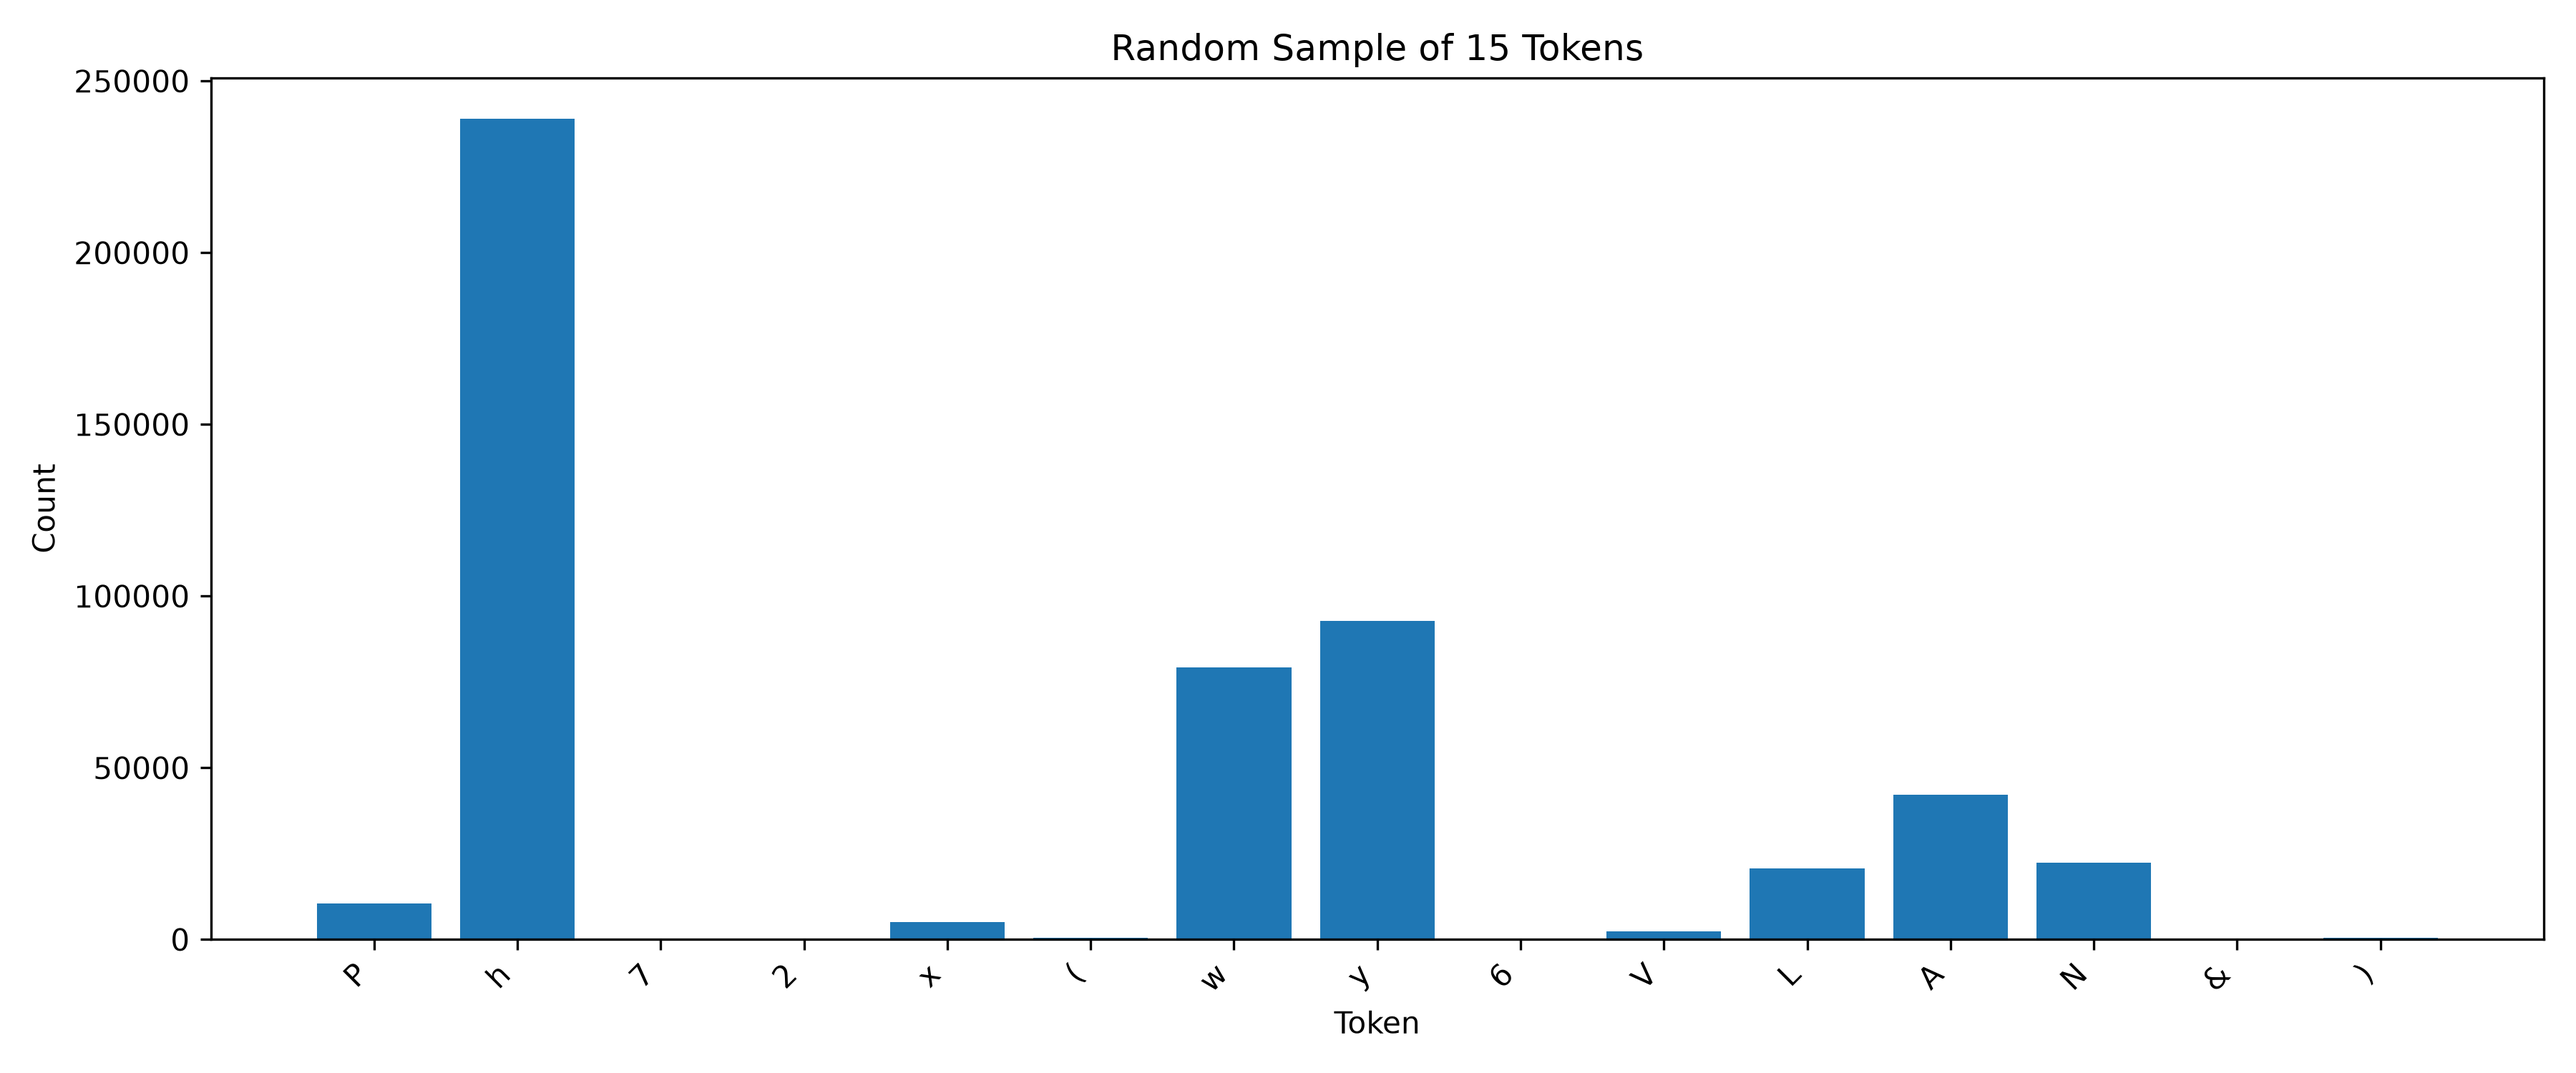
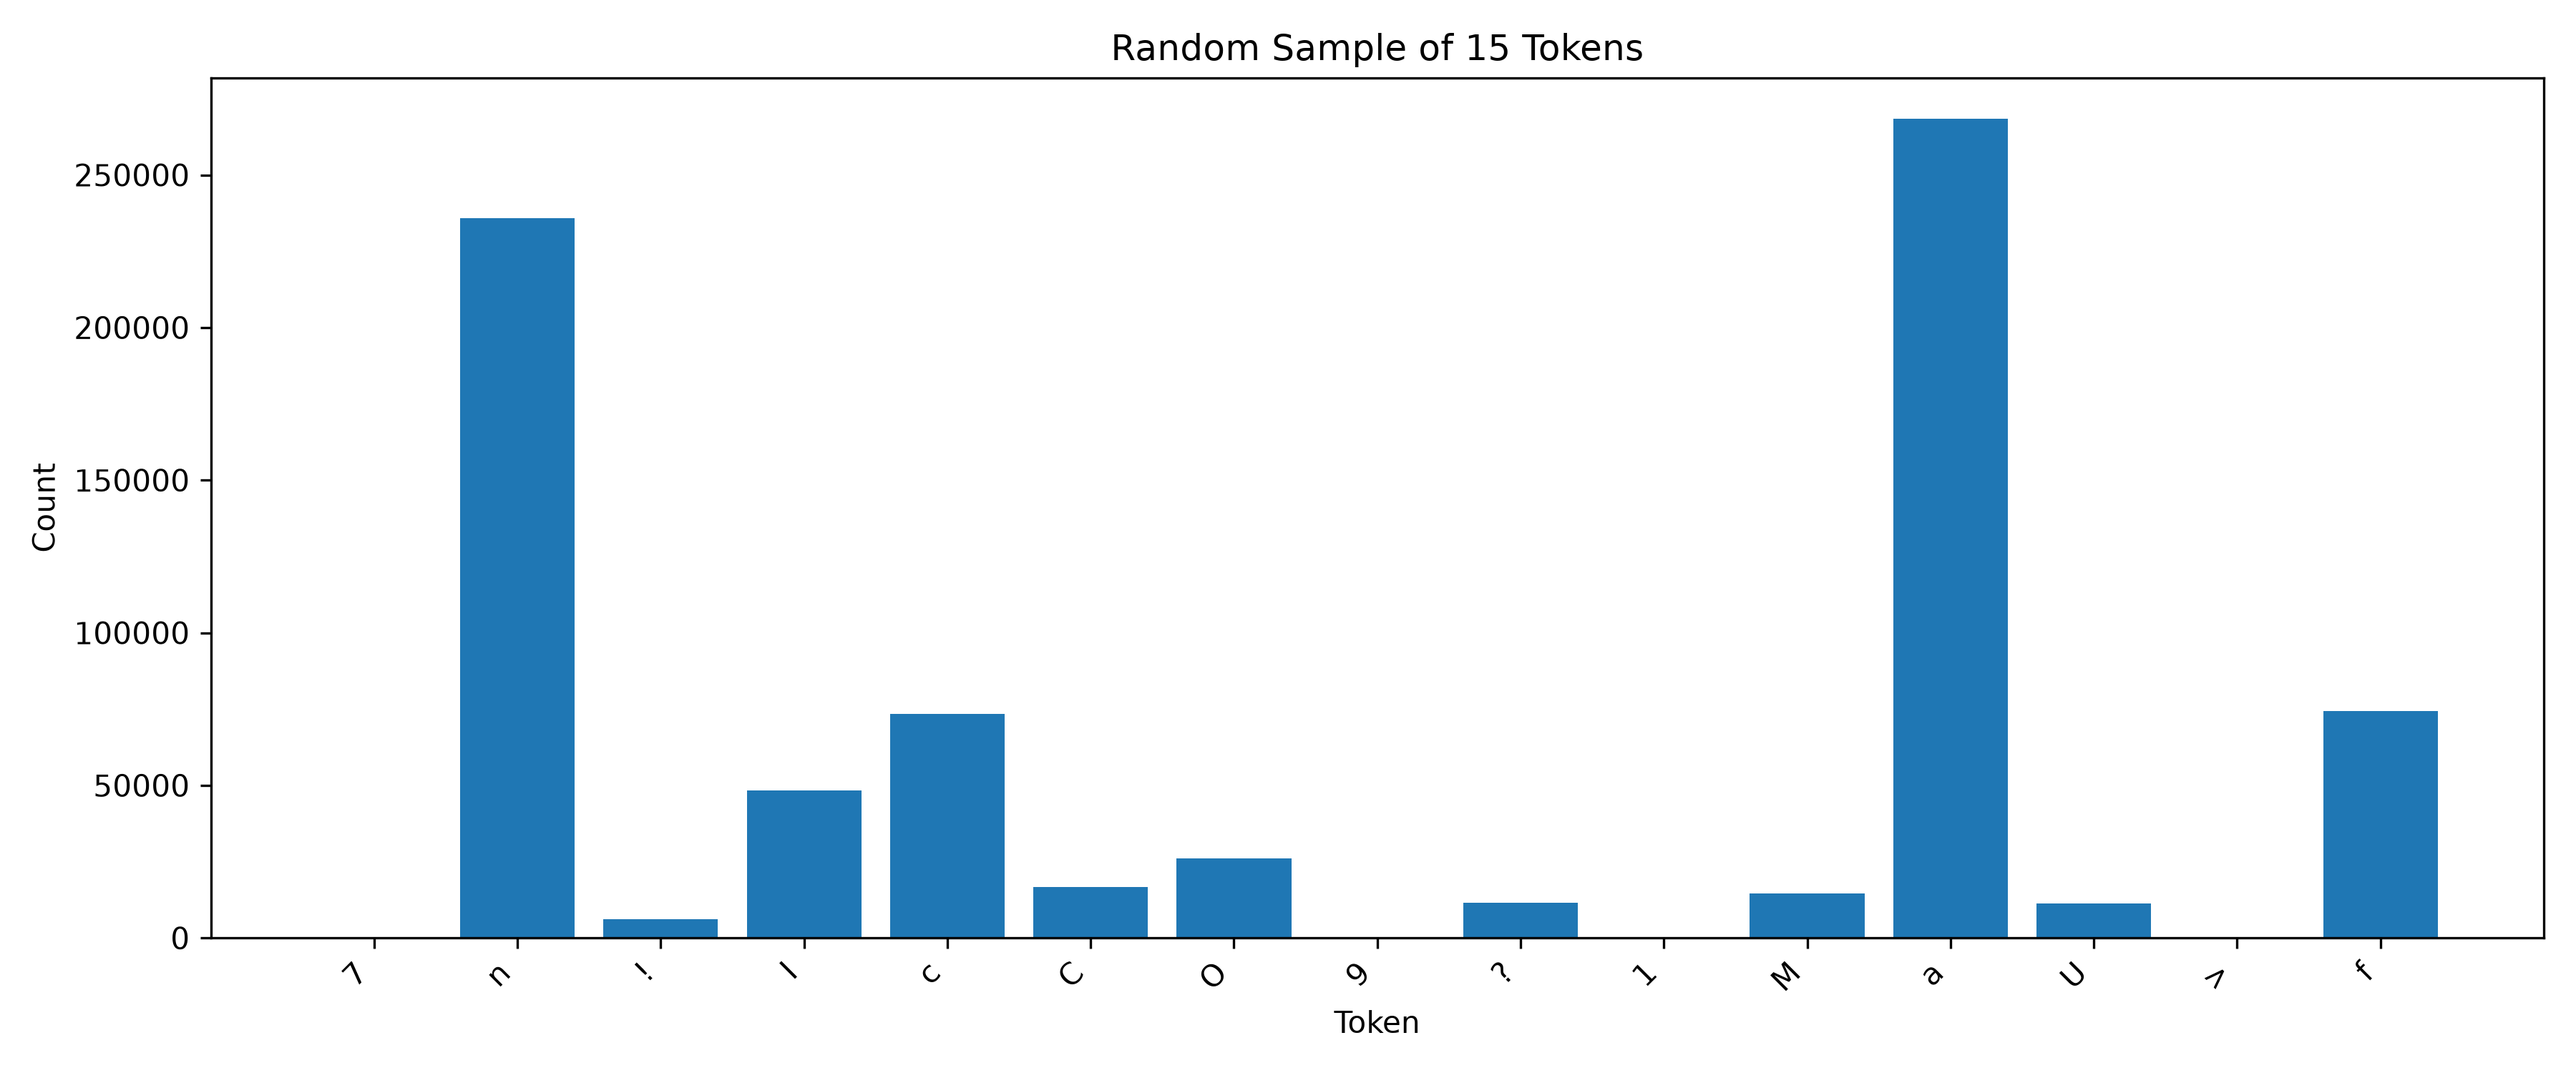
load dataset and start training using the tokenizer paradigm

diff --git a/tokenizers/char_tokenizer.py b/tokenizers/char_tokenizer.py
@@ -2,6 +2,7 @@ import json
 import torch
 
 from collections import Counter
+from pathlib import Path
 
 from data_config import (
   TOKENIZER_RAW_TOKEN_FILE_NAME,
@@ -12,6 +13,7 @@ from tokenizers.tokenizer_abc import TokenizerABC
 
 
 def prepare_tokenizer_data_paths(tokenizer_data_path):
+  tokenizer_data_path = Path(tokenizer_data_path)
   tokenizer_data_path.mkdir(parents=True, exist_ok=True)
   raw_token_path = tokenizer_data_path / TOKENIZER_RAW_TOKEN_FILE_NAME
   vocab_to_ind_path = tokenizer_data_path / TOKENIZER_VOCAB_TO_IND_FILE_NAME
@@ -22,17 +24,17 @@ def prepare_tokenizer_data_paths(tokenizer_data_path):
 class CharTokenizer(TokenizerABC):
   def __init__(self):
     super(CharTokenizer).__init__()
-    self.tokens = None
+    self.raw_tokens = None
     self.vocab_to_ind = None
     self.token_counts = None
 
   def train(self, corpus, **kwargs):
-    self.tokens = self._tokenize_play(corpus)
-    self.vocab_to_ind, self.token_counts = self._build_vocabulary(self.tokens)
+    self.raw_tokens = self._tokenize_play(corpus)
+    self.vocab_to_ind, self.token_counts = self._build_vocabulary(self.raw_tokens)
     counts = torch.tensor(list(self.token_counts.values()), dtype=torch.int32)
     print("Summary statistics:")
     print(f"Token number: {len(self.token_counts)}")
-    print(f"Corpuse character count: {len(self.tokens)}")
+    print(f"Corpuse raw token count: {len(self.raw_tokens)}")
     print("Tokens appearing once:", (counts == 1).sum())
     print("Tokens appearing <= 5:", (counts <= 5).sum())
     print("Tokens appearing <= 10:", (counts <= 10).sum())
@@ -42,7 +44,7 @@ class CharTokenizer(TokenizerABC):
   def save(self, path):
     raw_token_path, vocab_to_ind_path, token_count_path = prepare_tokenizer_data_paths(path)
     with open(raw_token_path, "w", encoding="utf-8") as file:
-      json.dump(self.tokens, file)
+      json.dump(self.raw_tokens, file)
     with open(vocab_to_ind_path, "w", encoding="utf-8") as file:
       json.dump(self.vocab_to_ind, file, indent=4)
     with open(token_count_path, "w", encoding="utf-8") as file:
@@ -52,13 +54,13 @@ class CharTokenizer(TokenizerABC):
   def load(cls, path):
     raw_token_path, vocab_to_ind_path, token_count_path = prepare_tokenizer_data_paths(path)
     with open(raw_token_path, "r", encoding="utf-8") as file:
-      tokens = json.load(file)
+      raw_tokens = json.load(file)
     with open(vocab_to_ind_path, "r", encoding="utf-8") as file:
       vocab_to_ind = json.load(file)
     with open(token_count_path, "r", encoding="utf-8") as file:
       token_counts = json.load(file)
     t = CharTokenizer()
-    t.tokens = tokens
+    t.raw_tokens = raw_tokens
     t.vocab_to_ind = vocab_to_ind
     t.token_counts = token_counts
     return t
@@ -71,17 +73,17 @@ class CharTokenizer(TokenizerABC):
 
   def _tokenize_play(self, play_string):
     """Tokenize text at character level."""
-    tokens = []
+    raw_tokens = []
     i = 0
     while i < len(play_string):
       c = play_string[i]
-      tokens.append(c)
+      raw_tokens.append(c)
       i += 1
-    return tokens
+    return raw_tokens
 
-  def _build_vocabulary(self, tokens):
+  def _build_vocabulary(self, raw_tokens):
     """Build token-to-index and token-count dictionaries."""
-    token_counts = Counter(tokens)
+    token_counts = Counter(raw_tokens)
 
     # Sort for deterministic vocabulary construction.
     vocab = sorted(token_counts, reverse=True)

diff --git a/train.py b/train.py
@@ -8,12 +8,12 @@ import torch.optim as optim
 import wandb
 
 from tqdm import tqdm
-from pathlib import Path
 
 from dataset import prepare_dataset_loader
 from hyperparams import config
 from models.transformer import Transformer
 from utils.model_utils import make_model_saver
+from utils.tokenizer_utils import load_tokenizer
 
 
 def train(
@@ -132,11 +132,15 @@ if __name__ == "__main__":
                   prog='shakespeare-training',
                   description='pretrain shakespeare transformer')
   parser.add_argument('-e', '--epochs', default=100, type=int)
+  parser.add_argument('-t', '--tokenizer', choices=["char", "bpe"], default='char')
+  parser.add_argument('--tokenizer-path', type=str)
   parser.add_argument('--enable-wandb', action='store_true')
   parser.add_argument('--enable-mixed-precision', action='store_true')
 
   args = parser.parse_args()
   epochs = args.epochs
+  tokenizer_name = args.tokenizer
+  tokenizer_path = args.tokenizer_path
   enable_wandb = args.enable_wandb
   enable_mixed_precision = args.enable_mixed_precision
 
@@ -171,7 +175,8 @@ if __name__ == "__main__":
         "block_size": block_size,
         "dmodel": dmodel,
         "dropout": dropout,
-        "use_bf16_mixed": use_bf16
+        "use_bf16_mixed": use_bf16,
+        "tokenizer": tokenizer_name
       }
     )
     run_name = wandb.run.name
@@ -188,17 +193,19 @@ if __name__ == "__main__":
   print("Epochs: ", epochs)
   print(f"Mixed precision training enabled: {use_bf16}")
 
-  print("Preparing dataset loader ...")
-  token_dataset_path = Path("data/token_dataset.pt")
-  token_sequence = torch.load(token_dataset_path).to(torch.long)
-  train_loader, val_loader, test_loader = prepare_dataset_loader(token_sequence, block_size, batch_size, train_end, val_end)
-  print("Dataset loader ready.")
-
-  vocab_to_ind_path = Path("data/vocab_to_ind.json")
-  with open(vocab_to_ind_path, "r", encoding="utf-8") as file:
-    vocab_to_ind = json.load(file)
+  print(f"Loading {tokenizer_name} tokenizer ...")
+  tokenizer = load_tokenizer(tokenizer_name, tokenizer_path)
+  vocab_to_ind = tokenizer.vocab_to_ind
   vocab_size = len(vocab_to_ind)
   config["vocab_size"] = len(vocab_to_ind)
+  print("Loading tokenizer done.")
+
+  print("Preparing dataset loader ...")
+  raw_tokens = tokenizer.raw_tokens
+  token_ids = [vocab_to_ind[t] for t in raw_tokens]
+  token_sequence = torch.tensor(token_ids).to(torch.long)
+  train_loader, val_loader, test_loader = prepare_dataset_loader(token_sequence, block_size, batch_size, train_end, val_end)
+  print("Dataset loader ready.")
 
   model = Transformer(**config).to(device)
 

diff --git a/dataset.py b/dataset.py
@@ -18,20 +18,7 @@ class LanguageModelingDataset(torch.utils.data.Dataset):
 
 class ShakespearePlayDataset(LanguageModelingDataset):
   def __init__(self, tokens, block_size):
-    super(ShakespearePlayDataset).__init__(tokens, block_size)
-
-
-def build_token_tensor(tokens, vocab_to_ind):
-  token_ids = [vocab_to_ind[t] for t in tokens]
-  token_dataset = torch.tensor(token_ids, dtype=torch.int32)
-  return token_dataset
-
-
-def create_dataset(tokens, dataset_name):
-  token_dataset = build_token_tensor(tokens)
-
-  if dataset_name == 'shakespeare-play':
-    return ShakespearePlayDataset(token_dataset)
+    super().__init__(tokens, block_size)
 
 
 def prepare_dataset_loader(tokens, block_size, batch_size, train_end, val_end):
@@ -44,9 +31,9 @@ def prepare_dataset_loader(tokens, block_size, batch_size, train_end, val_end):
   val_tokens = tokens[train_end:val_end]
   test_tokens = tokens[val_end:]
 
-  train_dataset = LanguageModelingDataset(train_tokens, block_size)
-  val_dataset = LanguageModelingDataset(val_tokens, block_size)
-  test_dataset = LanguageModelingDataset(test_tokens, block_size)
+  train_dataset = ShakespearePlayDataset(train_tokens, block_size)
+  val_dataset = ShakespearePlayDataset(val_tokens, block_size)
+  test_dataset = ShakespearePlayDataset(test_tokens, block_size)
 
   train_loader = DataLoader(train_dataset, batch_size=batch_size, shuffle=True)
   val_loader = DataLoader(val_dataset, batch_size=batch_size, shuffle=False)

diff --git a/utils/tokenizer_utils.py b/utils/tokenizer_utils.py
@@ -15,8 +15,15 @@ def decide_tokenizer_data_path(tokenizer):
     return BPE_TOKENIZER_DATA_PATH
 
 
-def create_tokenizer(tokenizer, **kwargs):
-  if tokenizer == "char":
+def create_tokenizer(tokenizer_name, **kwargs):
+  if tokenizer_name == "char":
     return CharTokenizer()
-  elif tokenizer == "bpe":
+  elif tokenizer_name == "bpe":
     return BPETokenizer()
+
+
+def load_tokenizer(tokenizer_name, tokenizer_path):
+  if tokenizer_name == "char":
+    return CharTokenizer.load(tokenizer_path)
+  elif tokenizer_name == "bpe":
+    return BPETokenizer.load(tokenizer_path)

diff --git a/data_config.py b/data_config.py
@@ -7,6 +7,8 @@ from pathlib import Path
 SHAKESPEARES_PLAY_DIR = Path("data/shakespeares-works_TXT_FolgerShakespeare")
 PLAT_TEXT_OUTPUT_PATH = Path("data/output.txt")
 
+DATASETS_DIR = Path("data/datasets")
+
 TOKENIZER_RAW_TOKEN_FILE_NAME = "raw_tokens.json"
 TOKENIZER_VOCAB_TO_IND_FILE_NAME = "vocab_to_ind.json"
 TOKENIZER_TOKEN_COUNT_FILE_NAME = "token_count.json"

diff --git a/train_tokenizer.py b/train_tokenizer.py
@@ -65,6 +65,7 @@ def plot_token_counts(token_counts, num_random=15):
   # -------------------------
   num_random = min(num_random, len(token_counts))
 
+  random.seed(6)
   sampled_tokens = random.sample(
     [token for token in token_counts.keys()],
     num_random
